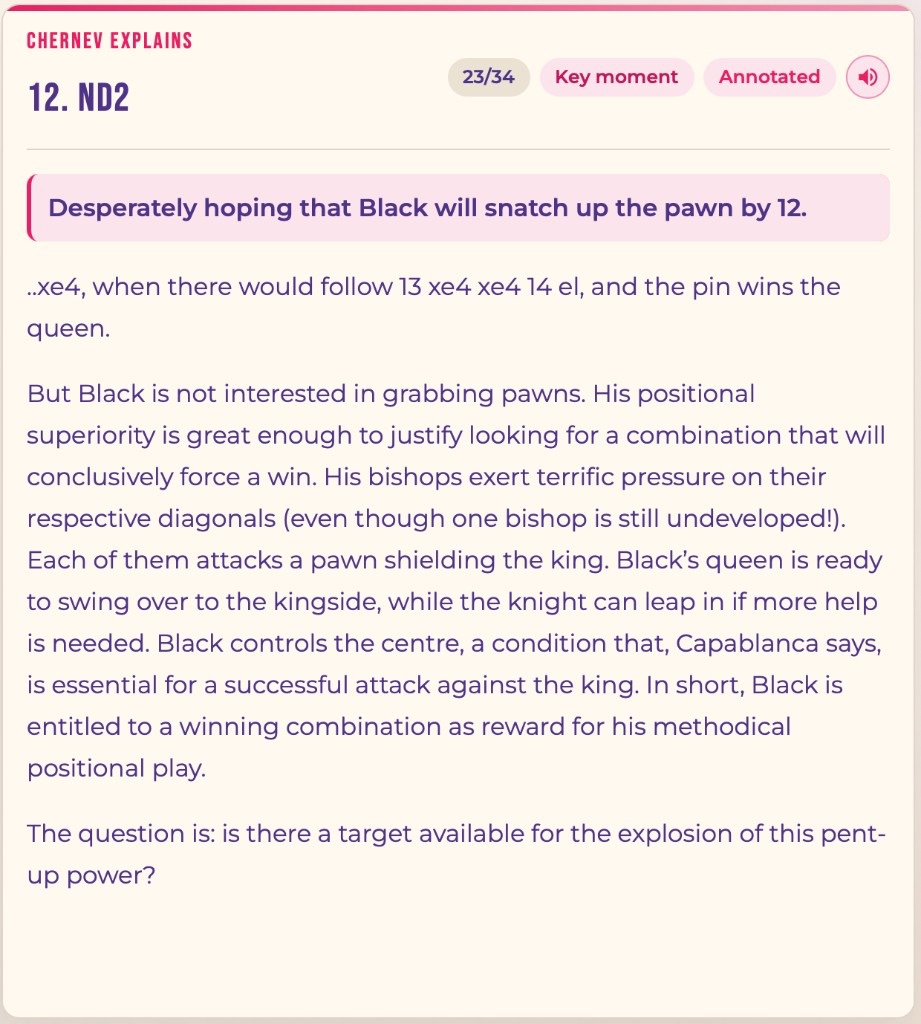
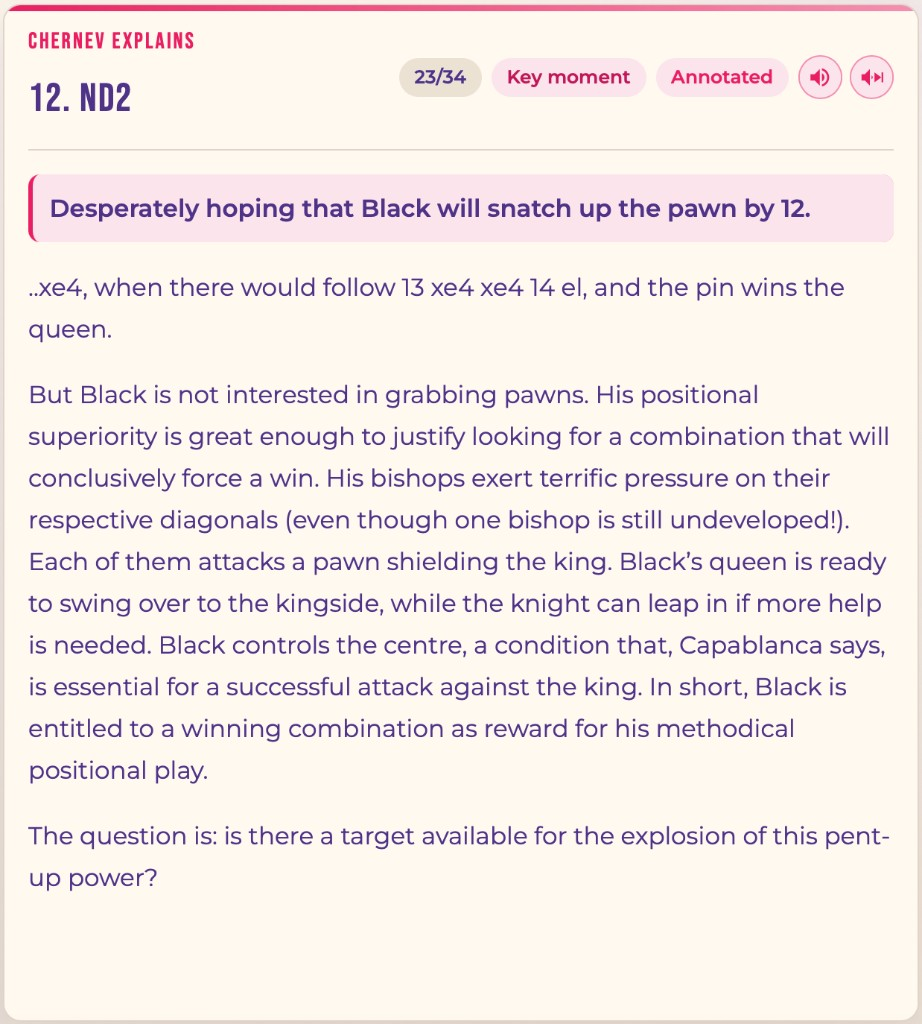
Add Listen once and follow-next controls with Stop only.
Split Listen into this-move and continue-on-Next buttons, drop pause/menu, and refresh the landing commentary shot.

diff --git a/web/src/components/CommentaryPanel.tsx b/web/src/components/CommentaryPanel.tsx
@@ -22,6 +22,8 @@ import {
   stopCommentarySpeech,
 } from "../lib/commentarySpeech";
 
+type ListenMode = "idle" | "once" | "follow";
+
 type Props = {
   node: AnnotationNode | undefined;
   ply: number;
@@ -143,6 +145,7 @@ export function CommentaryPanel({
   commentator,
 }: Props) {
   const [speaking, setSpeaking] = useState(false);
+  const [listenMode, setListenMode] = useState<ListenMode>("idle");
   const canSpeak = speechSupported();
 
   const label = ply === 0 ? "Introduction" : node?.san ? `${formatMoveNumber(ply)} ${node.san}` : `Move ${ply}`;
@@ -161,26 +164,64 @@ export function CommentaryPanel({
     [rawBeats, displayTakeaway],
   );
   const hasContent = beats.length > 0 || Boolean(displayTakeaway);
+  const speakLabel = useMemo(
+    () => (ply === 0 ? "" : normalizeEvalMarks(label).replace(/[!?]+$/g, "")),
+    [label, ply],
+  );
 
   const speechText = useMemo(() => {
     const body = commentaryToSpeechText(beats, displayTakeaway);
-    if (!body) return "";
     if (ply === 0) return body;
-    // Drop !/? glyphs on the move header — they become "good"/"mistake" and glue into the prose.
-    const speakLabel = normalizeEvalMarks(label).replace(/[!?]+$/g, "");
+    if (!speakLabel) return body;
+    if (!body) return speakLabel;
     return `${speakLabel}. ${body}`;
-  }, [beats, displayTakeaway, label, ply]);
+  }, [beats, displayTakeaway, speakLabel, ply]);
 
-  useEffect(() => {
+  const canListen = canSpeak && Boolean(speechText.trim());
+  const followActive = listenMode === "follow";
+  const onceActive = listenMode === "once" && speaking;
+
+  function stopListening() {
     stopCommentarySpeech();
     setSpeaking(false);
-  }, [ply, node?.text]);
+    setListenMode("idle");
+  }
 
-  useEffect(() => () => stopCommentarySpeech(), []);
+  function toggleOnce() {
+    if (listenMode === "once" && speaking) {
+      stopListening();
+      return;
+    }
+    if (followActive) stopListening();
+    setListenMode("once");
+    const started = speakCommentary(speechText, {
+      onEnd: () => {
+        setSpeaking(false);
+        setListenMode("idle");
+      },
+      onError: () => {
+        setSpeaking(false);
+        setListenMode("idle");
+      },
+    });
+    setSpeaking(started);
+    if (!started) setListenMode("idle");
+  }
 
-  function toggleListen() {
-    if (speaking) {
-      stopCommentarySpeech();
+  function toggleFollow() {
+    if (followActive) {
+      stopListening();
+      return;
+    }
+    stopCommentarySpeech();
+    setSpeaking(false);
+    setListenMode("follow");
+  }
+
+  // Follow mode: narrate this ply, then again each time Next advances.
+  useEffect(() => {
+    if (listenMode !== "follow") return;
+    if (!speechText.trim()) {
       setSpeaking(false);
       return;
     }
@@ -189,7 +230,17 @@ export function CommentaryPanel({
       onError: () => setSpeaking(false),
     });
     setSpeaking(started);
-  }
+  }, [ply, listenMode, speechText]);
+
+  // Navigating away during a one-shot listen stops playback.
+  useEffect(() => {
+    if (listenMode === "follow") return;
+    stopCommentarySpeech();
+    setSpeaking(false);
+    setListenMode((mode) => (mode === "once" ? "idle" : mode));
+  }, [ply]);
+
+  useEffect(() => () => stopCommentarySpeech(), []);
 
   return (
     <section className="commentary">
@@ -202,17 +253,30 @@ export function CommentaryPanel({
           <span className="pill">{ply}/{totalPlies}</span>
           {node?.isCritical ? <span className="pill critical">Key moment</span> : null}
           {hasContent ? <span className="pill accent">Annotated</span> : null}
-          {canSpeak && hasContent ? (
-            <button
-              type="button"
-              className={`commentary-listen${speaking ? " is-speaking" : ""}`}
-              onClick={toggleListen}
-              aria-pressed={speaking}
-              aria-label={speaking ? "Stop reading" : "Listen to this commentary"}
-              title={speaking ? "Stop reading" : "Listen to this commentary"}
-            >
-              {speaking ? <StopIcon /> : <SpeakerIcon />}
-            </button>
+          {followActive ? <span className="pill accent">Follow</span> : null}
+          {canListen ? (
+            <div className="commentary-listen-wrap">
+              <button
+                type="button"
+                className={`commentary-listen${onceActive ? " is-speaking" : ""}`}
+                onClick={toggleOnce}
+                aria-pressed={onceActive}
+                aria-label={onceActive ? "Stop listening" : "Listen to this move"}
+                title={onceActive ? "Stop" : "This move"}
+              >
+                {onceActive ? <StopIcon /> : <SpeakerIcon />}
+              </button>
+              <button
+                type="button"
+                className={`commentary-listen commentary-listen-follow${followActive ? " is-follow" : ""}`}
+                onClick={toggleFollow}
+                aria-pressed={followActive}
+                aria-label={followActive ? "Stop following moves" : "Listen to this move and each next move"}
+                title={followActive ? "Stop following" : "This & next moves"}
+              >
+                {followActive ? <StopIcon /> : <FollowIcon />}
+              </button>
+            </div>
           ) : null}
         </div>
       </header>
@@ -255,6 +319,20 @@ function SpeakerIcon() {
         fill="currentColor"
         d="M3 9v6h4l5 5V4L7 9H3zm13.5 3c0-1.77-1.02-3.29-2.5-4.03v8.05c1.48-.73 2.5-2.25 2.5-4.02zM14 3.23v2.06c2.89.86 5 3.54 5 6.71s-2.11 5.85-5 6.71v2.06c4.01-.91 7-4.49 7-8.77s-2.99-7.86-7-8.77z"
       />
+    </svg>
+  );
+}
+
+function FollowIcon() {
+  // Speaker + skip-next: "keep listening as you advance"
+  return (
+    <svg className="commentary-listen-icon" viewBox="0 0 24 24" aria-hidden="true" focusable="false">
+      <path
+        fill="currentColor"
+        d="M2 9v6h3.2L10 20V4L5.2 9H2zm9.6 1.1v3.8c.72-.36 1.2-1.1 1.2-1.9s-.48-1.54-1.2-1.9z"
+      />
+      <path fill="currentColor" d="M14.4 7.2v9.6L21 12l-6.6-4.8z" />
+      <path fill="currentColor" d="M21.2 7.2h1.6v9.6h-1.6z" />
     </svg>
   );
 }

diff --git a/web/src/lib/commentarySpeech.ts b/web/src/lib/commentarySpeech.ts
@@ -326,6 +326,8 @@ export function speechSupported(): boolean {
 
 /** Bumped on cancel so in-flight sentence queues stop cleanly. */
 let speakGeneration = 0;
+let speechHoldPaused = false;
+let resumeAfterHold: (() => void) | null = null;
 const pendingPauseTimers = new Set<ReturnType<typeof setTimeout>>();
 
 function clearSpeechPauseTimers(): void {
@@ -335,9 +337,34 @@ function clearSpeechPauseTimers(): void {
 
 export function stopCommentarySpeech(): void {
   speakGeneration += 1;
+  speechHoldPaused = false;
+  resumeAfterHold = null;
   clearSpeechPauseTimers();
   if (!speechSupported()) return;
   window.speechSynthesis.cancel();
+}
+
+export function pauseCommentarySpeech(): boolean {
+  if (!speechSupported()) return false;
+  speechHoldPaused = true;
+  window.speechSynthesis.pause();
+  return true;
+}
+
+export function resumeCommentarySpeech(): boolean {
+  if (!speechSupported()) return false;
+  speechHoldPaused = false;
+  window.speechSynthesis.resume();
+  if (resumeAfterHold) {
+    const cont = resumeAfterHold;
+    resumeAfterHold = null;
+    cont();
+  }
+  return true;
+}
+
+export function commentarySpeechPaused(): boolean {
+  return speechHoldPaused || (speechSupported() && window.speechSynthesis.paused);
 }
 
 type SpeakHandlers = {
@@ -347,12 +374,28 @@ type SpeakHandlers = {
 
 const SENTENCE_GAP_MS = 320;
 
+function scheduleNextSentence(myGeneration: number, queueNext: () => void): void {
+  const timer = setTimeout(() => {
+    pendingPauseTimers.delete(timer);
+    if (myGeneration !== speakGeneration) return;
+    if (speechHoldPaused) {
+      resumeAfterHold = () => {
+        if (myGeneration === speakGeneration) queueNext();
+      };
+      return;
+    }
+    queueNext();
+  }, SENTENCE_GAP_MS);
+  pendingPauseTimers.add(timer);
+}
+
 /** Speak commentary sentence-by-sentence so end-of-sentence pauses are heard. */
 export function speakCommentary(text: string, handlers: SpeakHandlers = {}): boolean {
   if (!speechSupported() || !text.trim()) return false;
 
   stopCommentarySpeech();
   const myGeneration = speakGeneration;
+  speechHoldPaused = false;
   const settings = loadListenSettings();
   const voice = resolveSpeechVoice(settings.voiceURI);
 
@@ -381,12 +424,7 @@ export function speakCommentary(text: string, handlers: SpeakHandlers = {}): boo
         handlers.onEnd?.();
         return;
       }
-      // Browser TTS often glues utterances together — insert a real gap.
-      const timer = setTimeout(() => {
-        pendingPauseTimers.delete(timer);
-        queueNext();
-      }, SENTENCE_GAP_MS);
-      pendingPauseTimers.add(timer);
+      scheduleNextSentence(myGeneration, queueNext);
     };
     utterance.onerror = () => {
       if (myGeneration !== speakGeneration) return;

diff --git a/web/src/App.css b/web/src/App.css
@@ -2478,6 +2478,14 @@ button.lesson-row.is-started:hover:not(:disabled) {
   flex-wrap: wrap;
 }
 
+.commentary-listen-wrap {
+  position: relative;
+  display: inline-flex;
+  align-items: center;
+  gap: 0.3rem;
+  flex-shrink: 0;
+}
+
 .commentary-listen {
   appearance: none;
   display: inline-flex;
@@ -2511,7 +2519,8 @@ button.lesson-row.is-started:hover:not(:disabled) {
   transform: none;
 }
 
-.commentary-listen.is-speaking {
+.commentary-listen.is-speaking,
+.commentary-listen.is-follow {
   background: var(--accent);
   border-color: var(--accent);
   color: #fff;

diff --git a/web/src/pages/Landing.tsx b/web/src/pages/Landing.tsx
@@ -23,7 +23,7 @@ const SLIDES = [
     kind: "shot" as const,
     label: "Chernev explains",
     src: `${BASE}images/landing-commentary.jpg`,
-    alt: "Commentary panel for 12.Nd2 with takeaway, Listen speaker, and Chernev’s annotation",
+    alt: "Commentary panel for 12.Nd2 with takeaway, Listen and Follow controls, and Chernev’s annotation",
   },
 ] as const;
 
